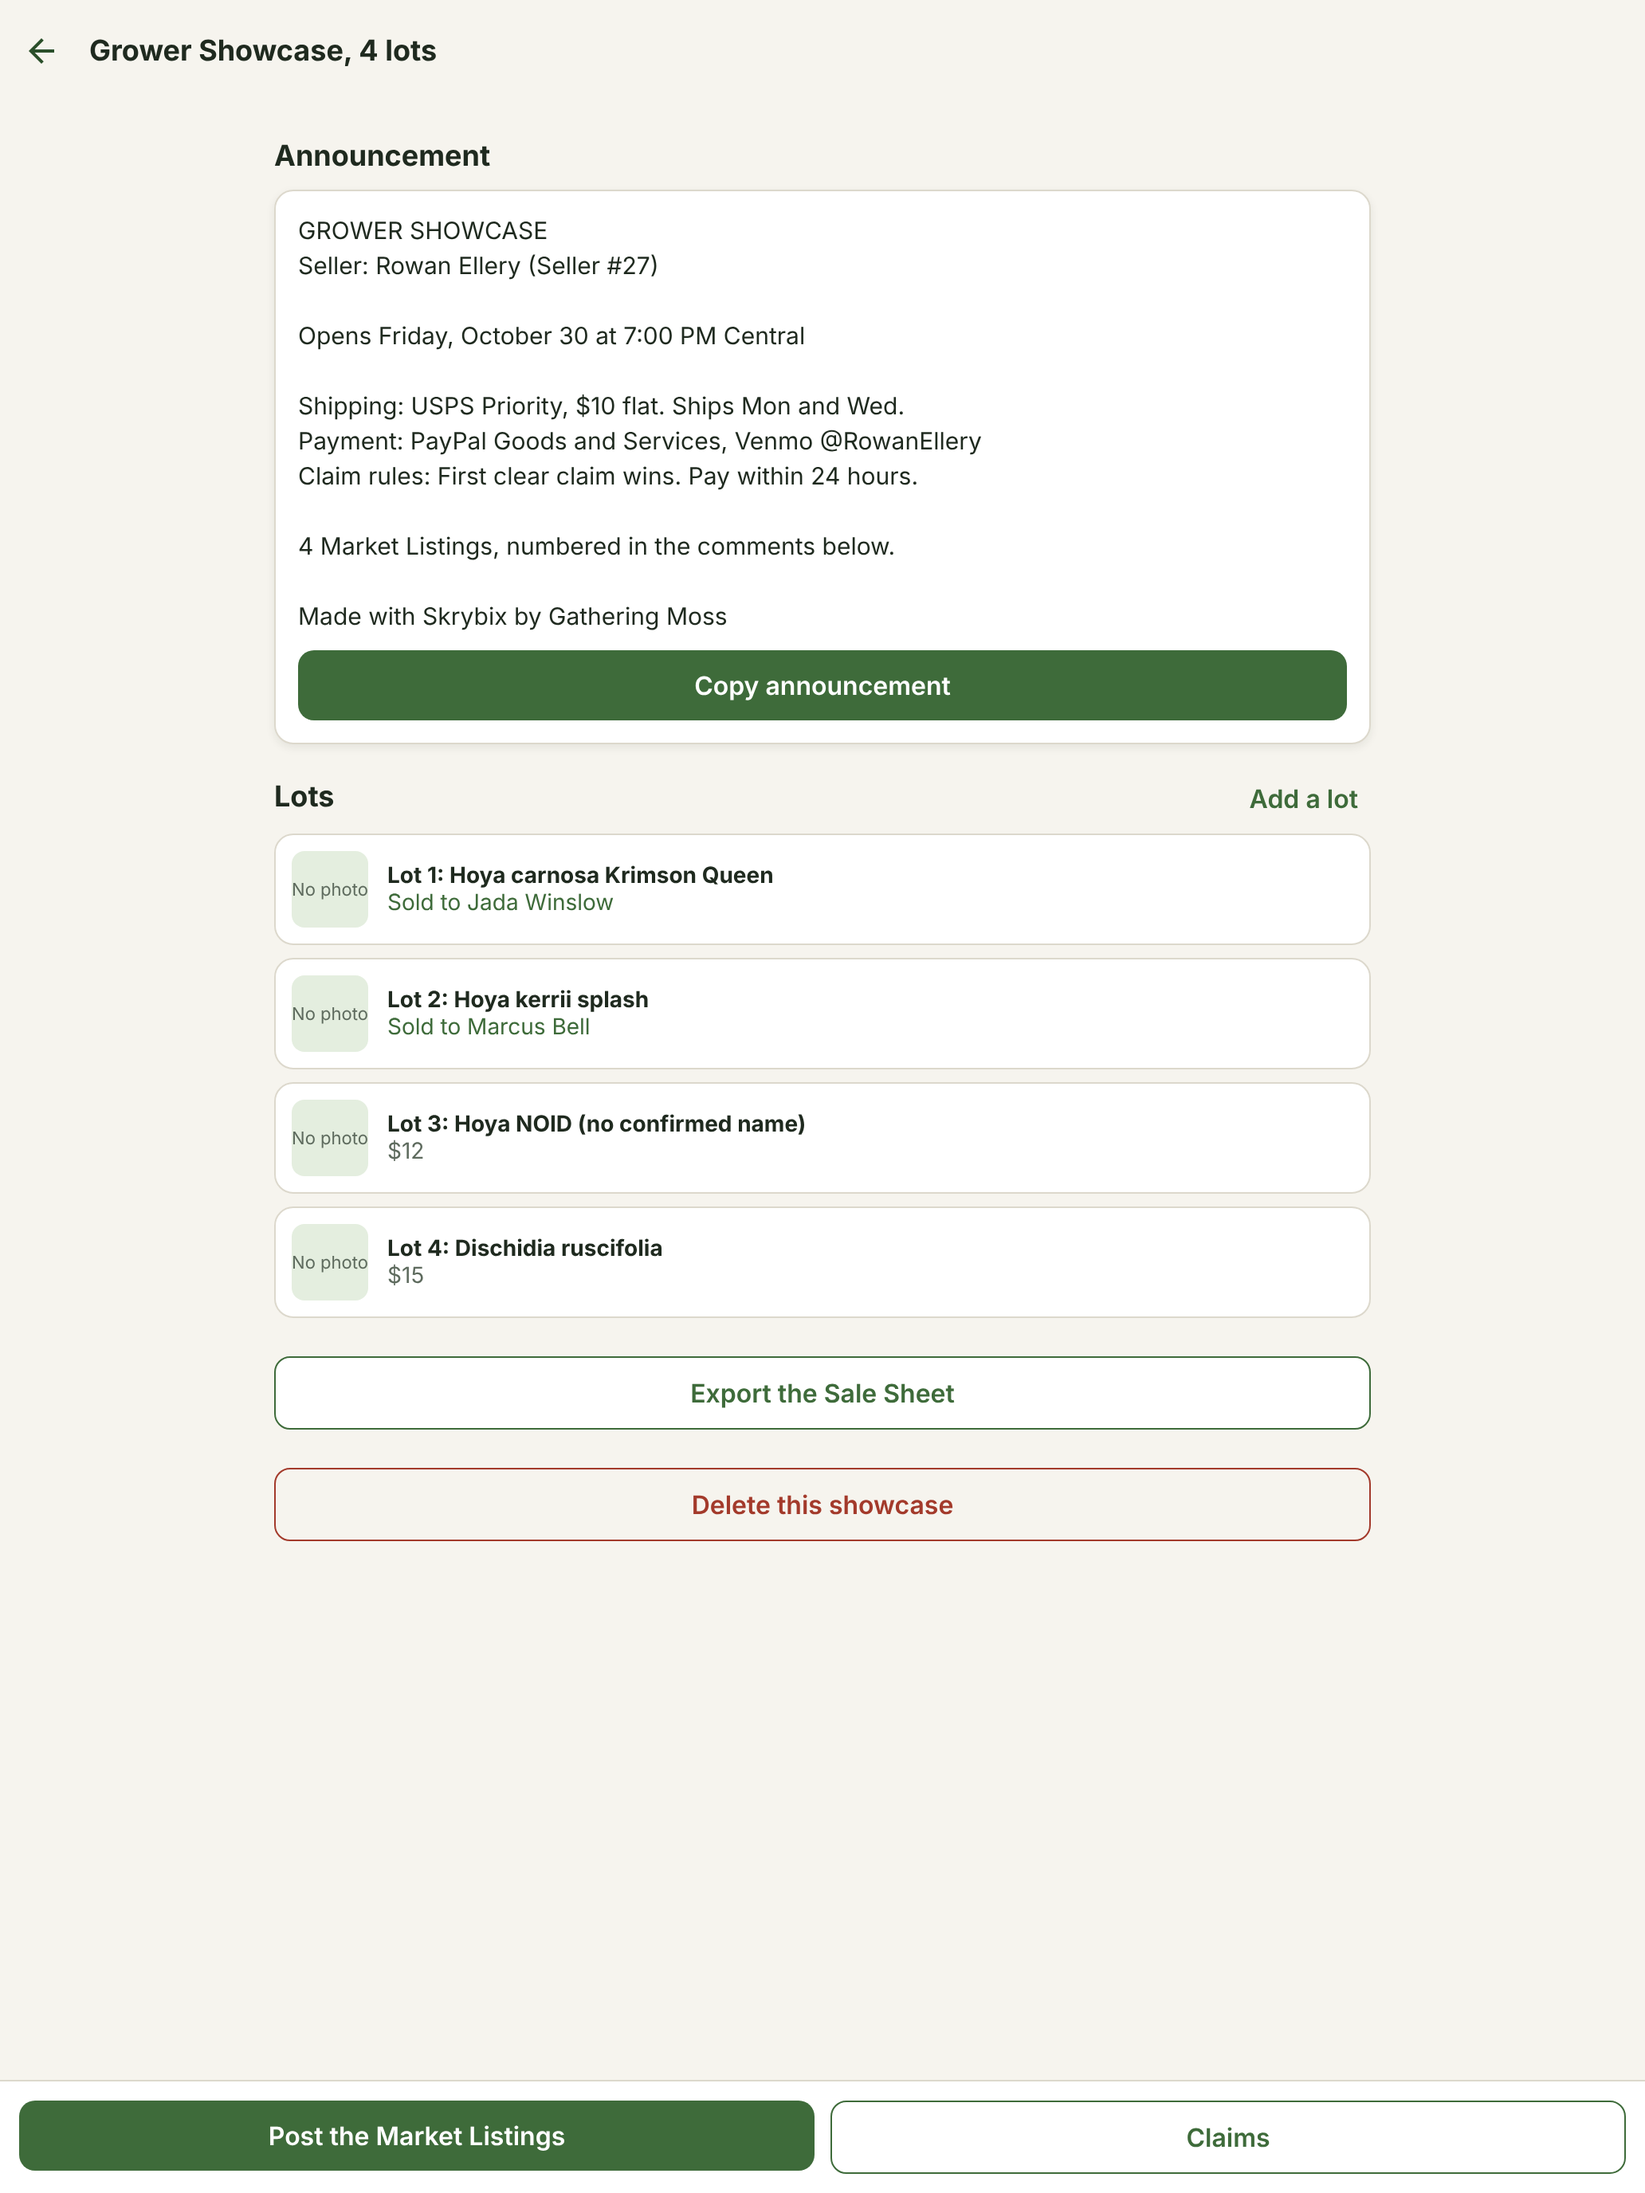
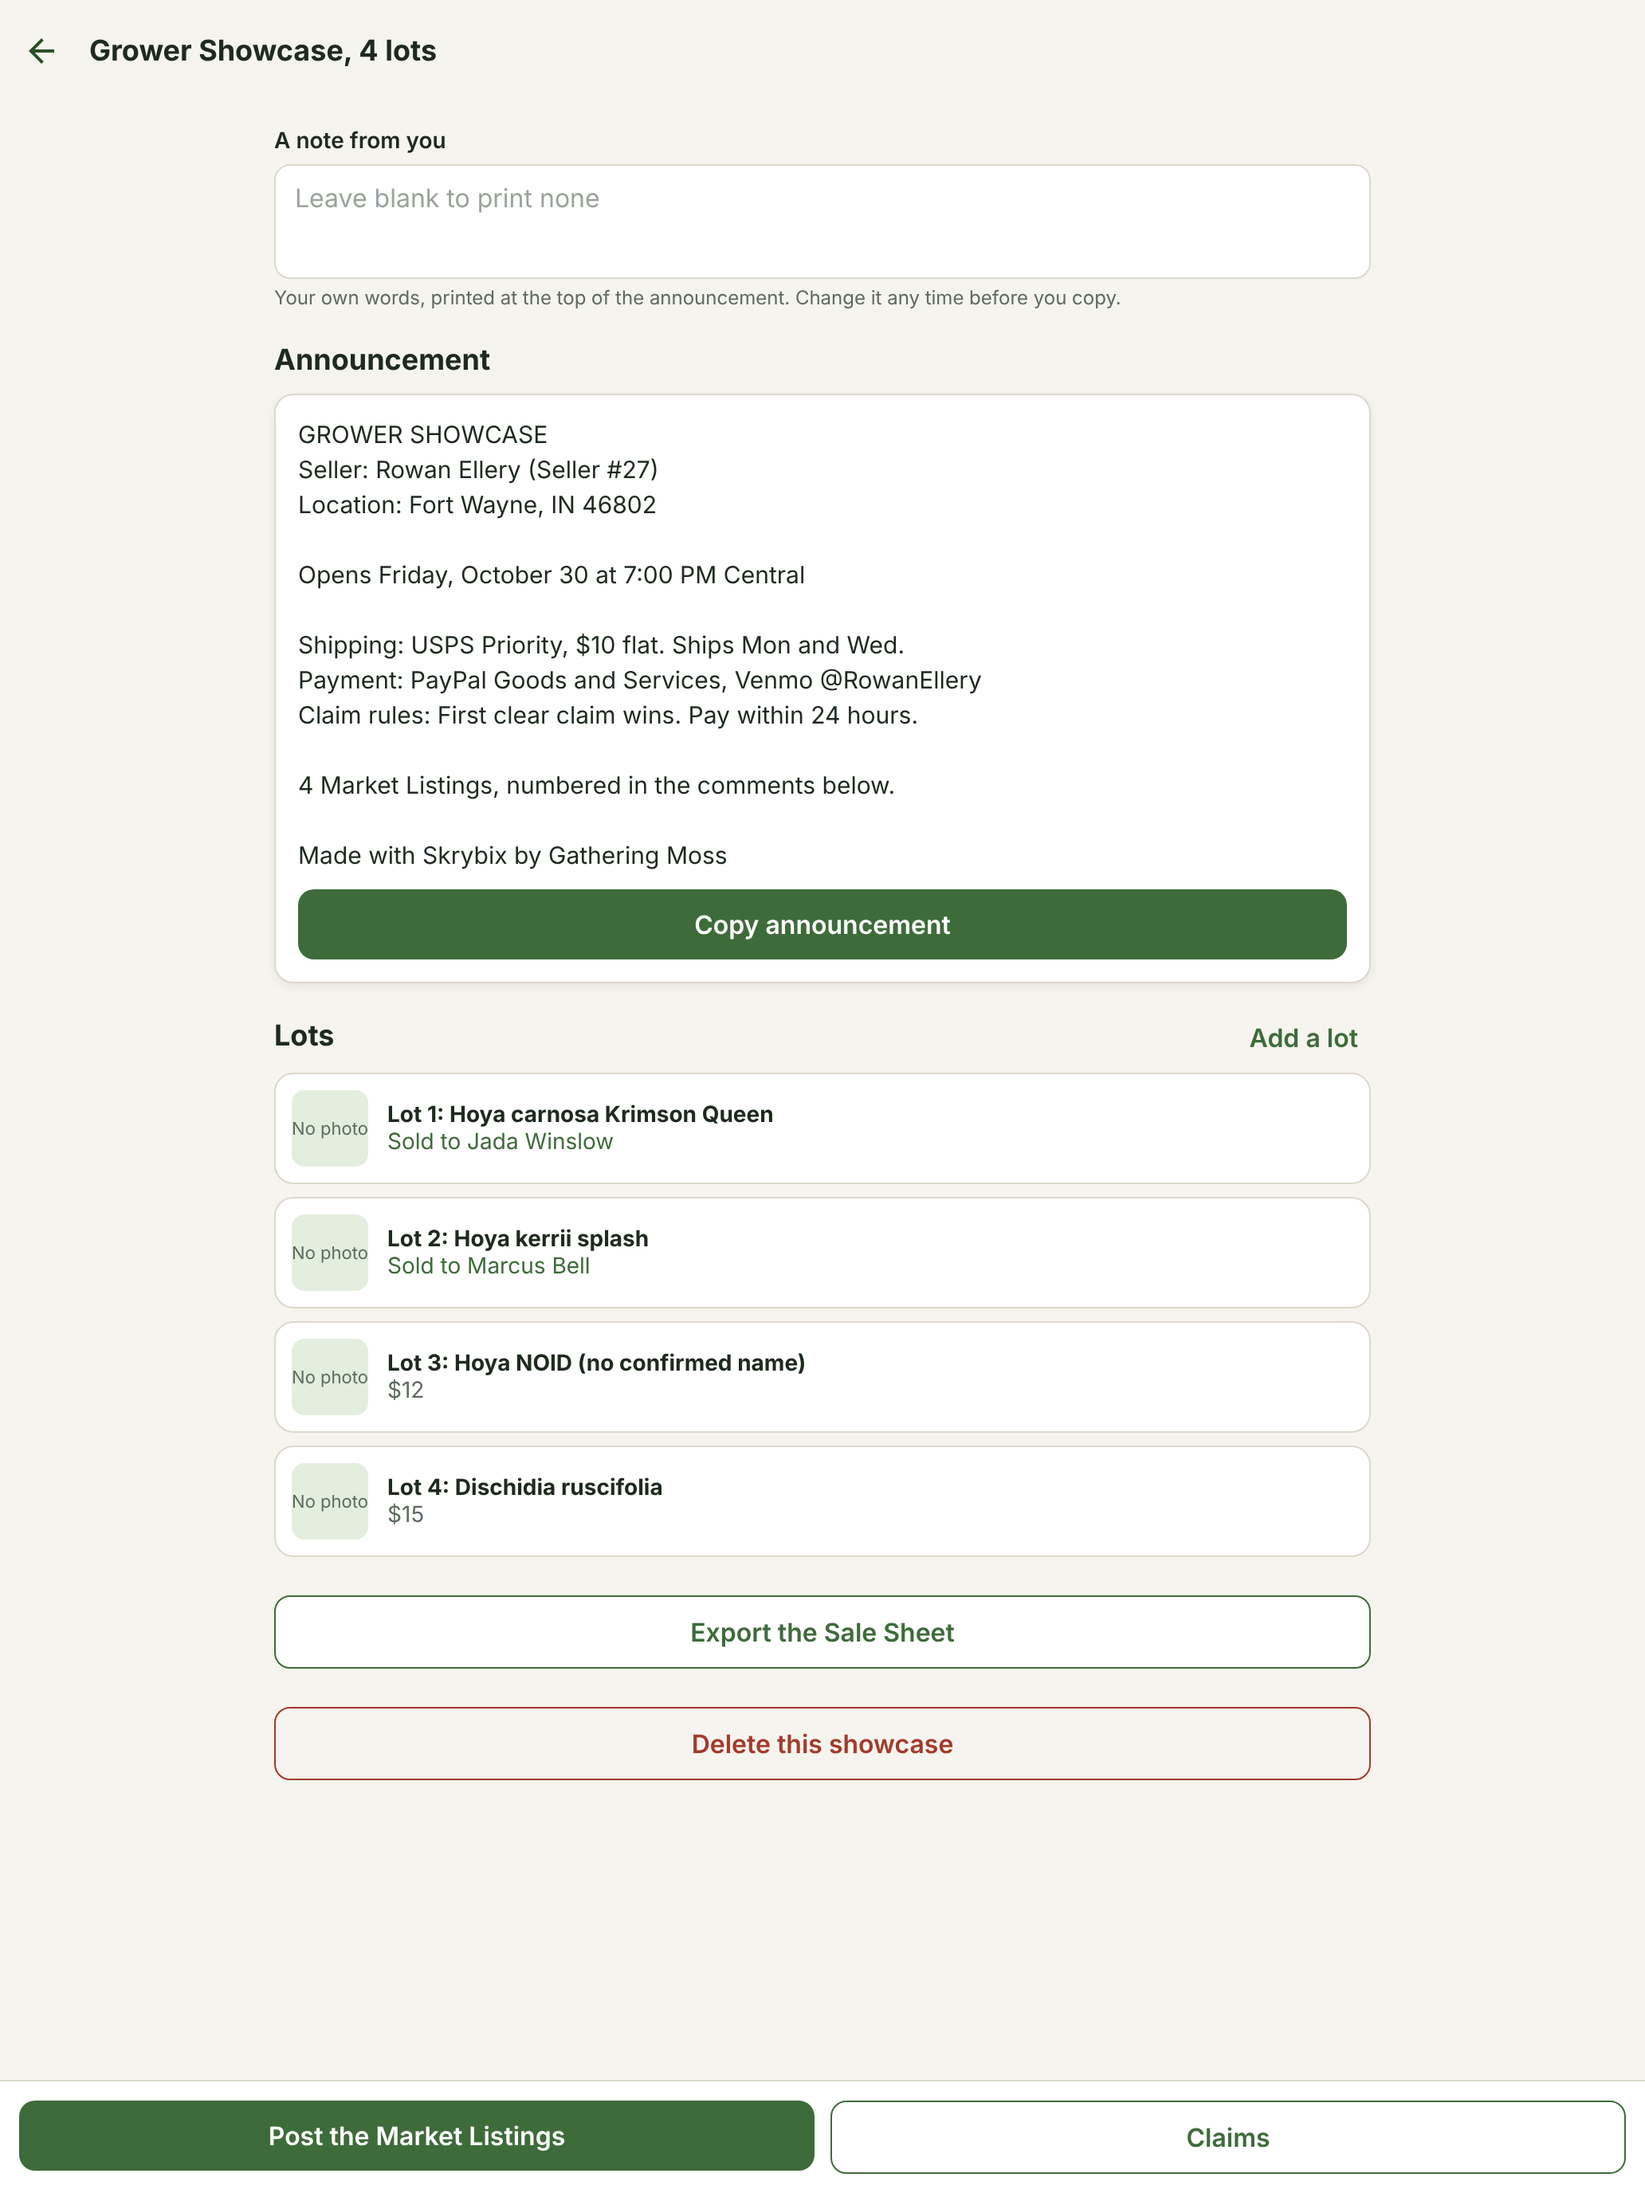
Print the location line and the sale note in every build; city, state and ZIP in the production profile
Removes the Phil gates from locationLine, noteLines and the announcement note. They print when
the seller has filled the fields in and stay absent when empty. The production profile gains
ZIP, city and state, and the sale screen's note field is no longer Phil only.
Re rendered shots 2 and 7 for both sizes.

Claude-Session: https://claude.ai/code/session_01W8xY69AMNhorbtGG8ANFAx

diff --git a/src/screens/ProfileClassic.tsx b/src/screens/ProfileClassic.tsx
@@ -1,6 +1,6 @@
 import { router } from 'expo-router';
-import { useState } from 'react';
-import { Linking } from 'react-native';
+import { useRef, useState } from 'react';
+import { Linking, Text } from 'react-native';
 import { PRO_PRIVACY } from '../core/pro';
 import { CONTACT_HOURS } from '../core/venues';
 import { FORMAT_LIST } from '../core/formats';
@@ -8,10 +8,11 @@ import { originLine, SUGGESTIONS_URL } from '../core/brand';
 import { VERIFIED_GROWER } from '../core/formats/commons';
 import { DEFAULT_PAY_WINDOW, PAY_WINDOWS } from '../core/secondChance';
 import { SHORT_DAYS } from '../core/text';
+import { fillFromZip, type Place } from '../core/zip';
 import type { FormatId, Profile } from '../core/types';
 import { EMPTY_PROFILE, useStore } from '../lib/store';
 import { FormSetup } from '../ui/FormSetup';
-import { Button, Checkboxes, Choice, Field, H, Note, Panel, Screen } from '../ui/kit';
+import { Button, Checkboxes, Choice, Field, H, Note, Panel, Screen, colors } from '../ui/kit';
 import { ProExplainer } from '../ui/ProExplainer';
 
 const ZONES = ['Eastern', 'Central', 'Mountain', 'Pacific', 'Alaska', 'Hawaii'];
@@ -21,6 +22,13 @@ export default function ProfileClassic() {
   const store = useStore();
   const [p, setP] = useState<Profile>(store.profile ?? EMPTY_PROFILE);
   const set = <K extends keyof Profile>(k: K) => (v: Profile[K]) => setP((x) => ({ ...x, [k]: v }));
+  // What the ZIP last filled in, so only the app's own fill is ever replaced, never the seller's words.
+  const zipFill = useRef<Place | null>(null);
+  const setZip = (zip: string) => {
+    const next = fillFromZip({ zip: p.zip ?? '', city: p.city ?? '', state: p.state ?? '' }, zip, zipFill.current);
+    zipFill.current = next.fill;
+    setP((x) => ({ ...x, zip, city: next.city, state: next.state }));
+  };
   const zoneIsListed = ZONES.includes(p.timeZone);
   const ready = p.sellerName.trim().length > 0;
 
@@ -53,6 +61,16 @@ export default function ProfileClassic() {
         placeholder="Leave blank if your room doesn't use one"
         keyboardType="number-pad"
       />
+      <Field label="ZIP code" value={p.zip ?? ''} onChangeText={setZip} placeholder="46802" keyboardType="number-pad" hint="Type your ZIP first. The city and state fill in. City and ZIP print on your cards as a location line. Leave them blank to print none." />
+      <Field label="City" value={p.city ?? ''} onChangeText={set('city')} placeholder="Fort Wayne" hint="Type over it if your cards should show a different city. Yours is what saves and prints." />
+      <Field label="State" value={p.state ?? ''} onChangeText={set('state')} placeholder="IN" autoCapitalize="characters" autoCorrect={false} maxLength={2} />
+      <Text style={{ fontSize: 12, color: colors.soft, marginTop: -8, marginBottom: 14 }}>
+        ZIP lookup data from{' '}
+        <Text style={{ textDecorationLine: 'underline' }} onPress={() => Linking.openURL('https://simplemaps.com/data/us-zips').catch(() => undefined)}>
+          SimpleMaps
+        </Text>
+        , used under CC BY 4.0.
+      </Text>
       <Field
         label="Shipping"
         value={p.shipping}

diff --git a/test/variant.test.ts b/test/variant.test.ts
@@ -65,18 +65,20 @@ describe('the two builds', () => {
     expect(commons.name).toBe('Commons sales card');
   });
 
-  it('closed test: the announcement carries no note, no deadline line and no location', () => {
+  it('production: the note and the location line print when filled in, and stay absent when empty', () => {
     as(undefined);
-    const text = announcementFor({ ...profile, city: 'Fort Wayne', zip: '46802' } as Profile, sale(), false);
-    expect(text).not.toContain('A note from me');
-    expect(text).not.toContain('Fort Wayne');
-    expect(text).not.toMatch(/within 24 hours/);
-    // With Pro on in the store product, the only addition is the buyer contact line.
-    const pro = announcementFor({ ...profile, city: 'Fort Wayne', zip: '46802' } as Profile, sale(), false);
-    expect(pro).toBe(text);
-    const paid = announcementFor({ ...profile, city: 'Fort Wayne', zip: '46802' } as Profile, sale(), true);
-    expect(paid).not.toContain('A note from me');
+    const withFields = { ...profile, city: 'Fort Wayne', state: 'IN', zip: '46802' } as Profile;
+    const filled = announcementFor(withFields, sale(), false);
+    expect(filled).toContain('A note from me');
+    expect(filled).toContain('Location: Fort Wayne, IN 46802');
+    expect(filled).not.toMatch(/within 24 hours/);
+    const bare = announcementFor(profile, { ...sale(), note: undefined }, false);
+    expect(bare).not.toContain('Location:');
+    expect(bare).not.toContain('A note from me');
+    // Pro adds only the buyer contact line.
+    const paid = announcementFor(withFields, sale(), true);
     expect(paid).toMatch(/within 24 hours/);
+    expect(paid.replace(/\n[^\n]*within 24 hours[^\n]*\n?/, '\n')).toContain('Location: Fort Wayne, IN 46802');
     as('phil');
     const phil = announcementFor({ ...profile, city: 'Fort Wayne', zip: '46802' } as Profile, sale(), true);
     expect(phil).toContain('A note from me');

diff --git a/src/core/announce.ts b/src/core/announce.ts
@@ -6,18 +6,14 @@
 import { contactLine } from './checkout';
 import { getFormat } from './formats';
 import type { Profile, Sale } from './types';
-import { isPhil } from './variant';
 import { resolveProfile } from './venues';
 
 export function announcementFor(profile: Profile, sale: Sale, pro: boolean): string {
-  // Without the Phil build's rooms and Pro, the announcement prints as it always did.
-  if (!isPhil() && !pro) return getFormat(sale.formatId).announcement({ profile, sale });
   const room = resolveProfile(profile, sale);
   return getFormat(sale.formatId).announcement({
     profile: room,
     sale,
-    // The seller's per sale note belongs to the Phil build's Part Two. The store product adds only the Pro contact line.
-    note: isPhil() ? sale.note : undefined,
+    note: sale.note,
     contactLine: pro ? contactLine(sale, room) : null,
   });
 }

diff --git a/src/core/formats/parts.ts b/src/core/formats/parts.ts
@@ -1,4 +1,3 @@
-import { isPhil } from '../variant';
 import { SHORT_DAYS, formatPrice, formatSaleTime, joinWords, plantDisplayName } from '../text';
 import { locationText } from '../venues';
 import type { Lot, Profile, Sale, SaleKind } from '../types';
@@ -46,14 +45,12 @@ export function shippingLine(profile: Profile): string | null {
 
 /** "Location: Fort Wayne, IN 46802", from the room's own city, state and ZIP. Null when the room has neither. */
 export function locationLine(profile: Profile): string | null {
-  if (!isPhil()) return null;
   const where = locationText(profile);
   return where ? `Location: ${where}` : null;
 }
 
 /** The seller's note for the sale as its own paragraph, or nothing. */
 export function noteLines(note: string | undefined): (string | null)[] {
-  if (!isPhil()) return [];
   const n = note?.trim();
   return n ? [n, ''] : [];
 }

diff --git a/src/app/sale/[id]/index.tsx b/src/app/sale/[id]/index.tsx
@@ -57,14 +57,14 @@ export default function SaleScreen() {
         }
       >
         {isPhil() ? <Note>Room: {room.name}</Note> : null}
-        {isPhil() ? <Field
+        <Field
           label="A note from you"
           value={sale.note ?? ''}
           onChangeText={(note) => store.saveSale({ ...sale, note })}
           placeholder="Leave blank to print none"
           hint="Your own words, printed at the top of the announcement. Change it any time before you copy."
           multiline
-        /> : null}
+        />
         {store.pro ? (
           <>
             {sale.kind === 'sale' ? (

diff --git a/store/screenshots-ios/README.md b/store/screenshots-ios/README.md
@@ -11,4 +11,6 @@ The harness (harness folder) is a scratch copy of cc04f5b with two changes, both
 
 Shot 7 is a filled render, not a live store capture. Off device the App Store products cannot load, so the paywall shows the two products as StoreKit returns them: annual 59.99 with a seven day free trial, monthly 7.99.
 
-Shot 2 shows the production announcement. It prints no city or ZIP, because the location line is part of the Phil variant only.
+Shot 2 shows the production announcement with the location line, from a seeded profile with city, state and ZIP.
+
+Shot 7 on the iPhone was rendered at a wider logical width (550 by 1195, scale 2.4) so the whole paywall fits from the top of its scroll in the same 1320 by 2868 canvas.
